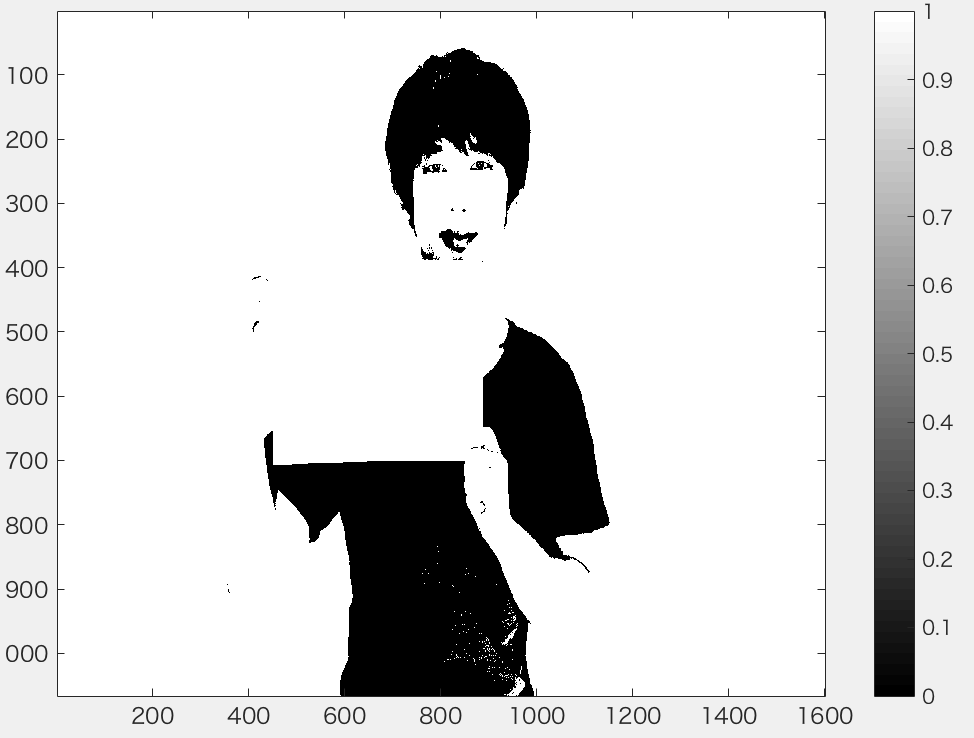
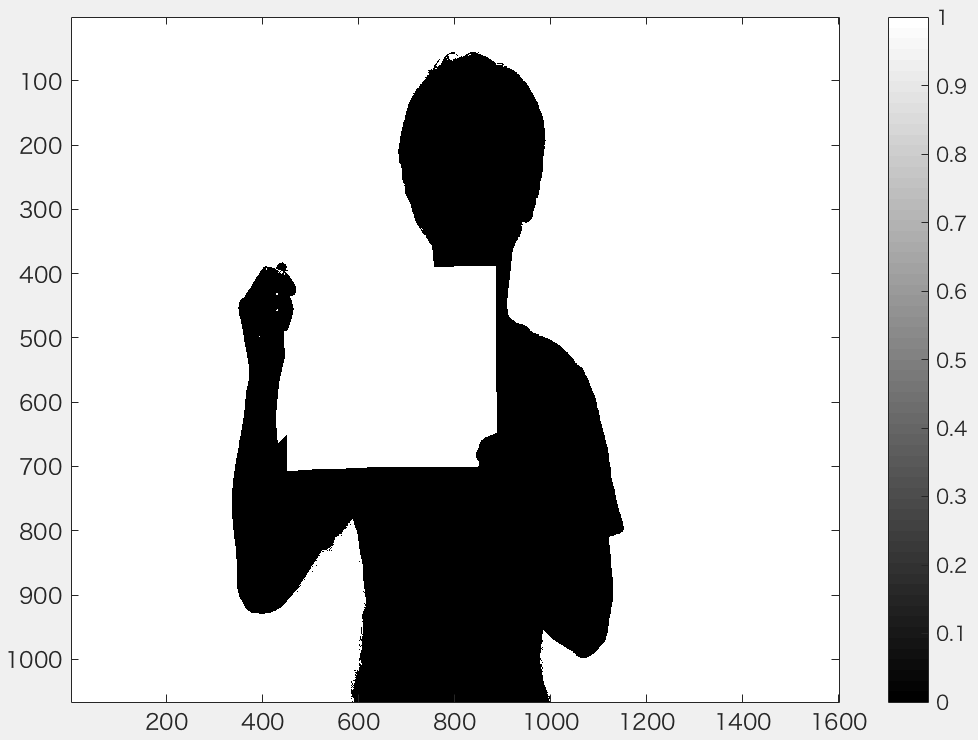
課題8

diff --git a/kadai8/kadai8.md b/kadai8/kadai8.md
@@ -1,11 +1,17 @@
+課題8のプログラムは同じ連結成分に属する画素に同一番号を，異なる連結成分に異なる番号を与える処理を行い，これをラベリングという．MATLABではbwlabeln関数を用いる事で行える．
+
+元のプログラムでは二値化を行う際の閾値を128としていたが，今回はこの値の修正を行い220とした．この値は課題5の判別分析方で得られた閾値226に近い値である．
+
 <img src="https://github.com/tableamd/lecture_image_processing/blob/master/kadai8/1.png">
 
-図1 
+図1 元画像(グレースケール化)
 
 <img src="https://github.com/tableamd/lecture_image_processing/blob/master/kadai8/2.png">
 
-図2 
+図2 閾値220での二値化
 
 <img src="https://github.com/tableamd/lecture_image_processing/blob/master/kadai8/3.png">
 
-図3 
+図3 ラベリング
+
+図2の時点で，背景と被写体は綺麗に別れている事が確認できる．これをラベリングする事で図3の様に背景と被写体それぞれについてラベリングする事ができた．
